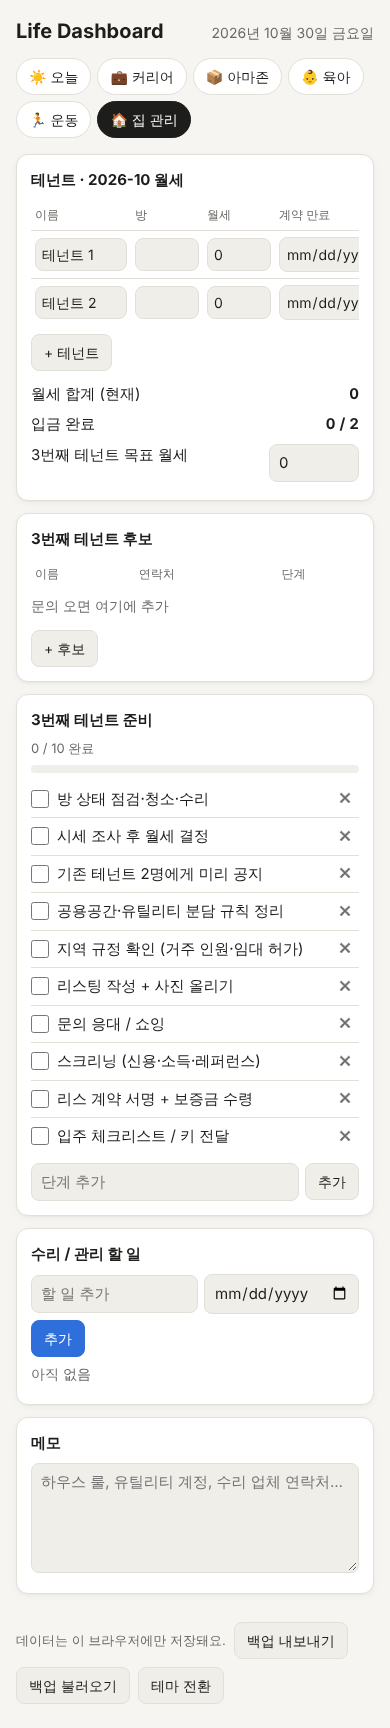
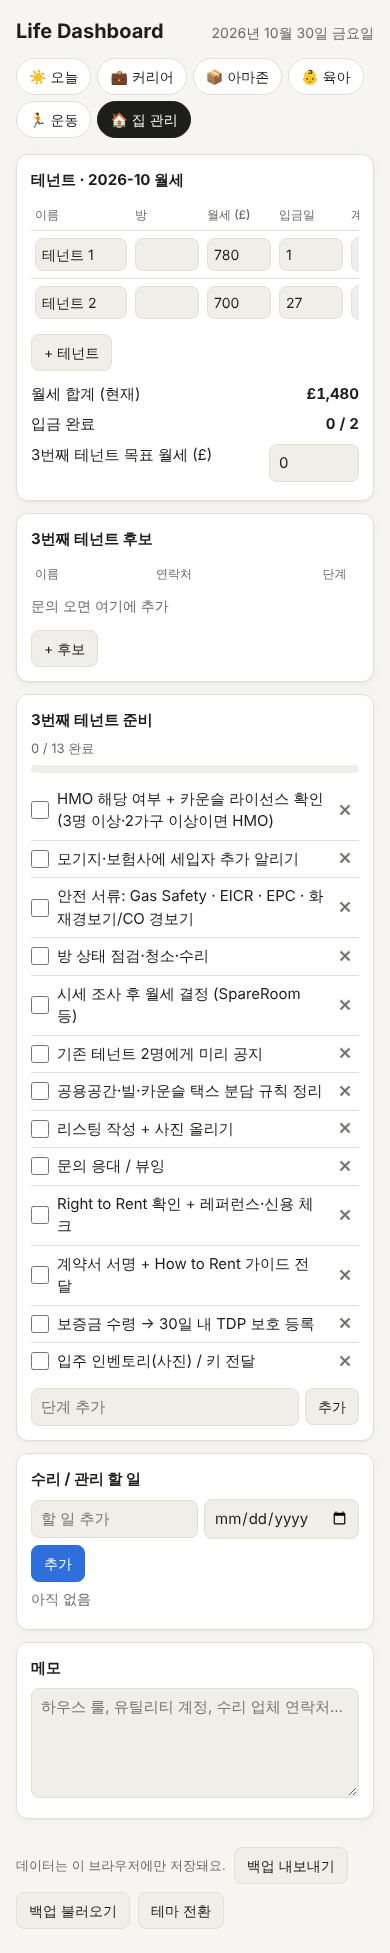
Add rent due days, GBP currency, and UK tenant checklist
Existing tenants default to £780 (due 1st) and £700 (due 27th). Unpaid
rent that is overdue or due within 3 days appears on the today view and
can be ticked off there. Third-tenant checklist now covers HMO licensing,
safety certificates, Right to Rent and deposit protection.

Claude-Session: https://claude.ai/code/session_01GAwHhr3pWUM5SJs8EwZoWy

diff --git a/index.html b/index.html
@@ -95,7 +95,7 @@ ul.list li.done .t { text-decoration: line-through; color: var(--muted); }
 .week button.today { outline: 2px solid var(--text); outline-offset: 1px; }
 .bigbtn { width: 100%; padding: 16px; font-size: 17px; font-weight: 600; border-radius: 12px; cursor: pointer; border: 0; background: var(--fitness); color: #fff; font-family: inherit; }
 .bigbtn.done { background: var(--surface-2); color: var(--muted); }
-.table { width: 100%; min-width: 480px; border-collapse: collapse; font-size: 14px; }
+.table { width: 100%; min-width: 560px; border-collapse: collapse; font-size: 14px; }
 .table th, .table td { text-align: left; padding: 6px 4px; border-top: 1px solid var(--border); vertical-align: middle; }
 .table th { color: var(--muted); font-weight: 500; font-size: 12px; border-top: 0; }
 .table input, .table select { width: 100%; min-width: 64px; padding: 5px 6px; }
@@ -148,17 +148,25 @@ const AMAZON_STEPS = [
   '런칭 PPC 광고 세팅',
   '첫 리뷰 확보 (Vine 등)',
 ];
+const OLD_TENANT_STEPS = [
+  '방 상태 점검·청소·수리', '시세 조사 후 월세 결정', '기존 테넌트 2명에게 미리 공지',
+  '공용공간·유틸리티 분담 규칙 정리', '지역 규정 확인 (거주 인원·임대 허가)', '리스팅 작성 + 사진 올리기',
+  '문의 응대 / 쇼잉', '스크리닝 (신용·소득·레퍼런스)', '리스 계약 서명 + 보증금 수령', '입주 체크리스트 / 키 전달',
+];
 const TENANT_STEPS = [
+  'HMO 해당 여부 + 카운슬 라이선스 확인 (3명 이상·2가구 이상이면 HMO)',
+  '모기지·보험사에 세입자 추가 알리기',
+  '안전 서류: Gas Safety · EICR · EPC · 화재경보기/CO 경보기',
   '방 상태 점검·청소·수리',
-  '시세 조사 후 월세 결정',
+  '시세 조사 후 월세 결정 (SpareRoom 등)',
   '기존 테넌트 2명에게 미리 공지',
-  '공용공간·유틸리티 분담 규칙 정리',
-  '지역 규정 확인 (거주 인원·임대 허가)',
+  '공용공간·빌·카운슬 택스 분담 규칙 정리',
   '리스팅 작성 + 사진 올리기',
-  '문의 응대 / 쇼잉',
-  '스크리닝 (신용·소득·레퍼런스)',
-  '리스 계약 서명 + 보증금 수령',
-  '입주 체크리스트 / 키 전달',
+  '문의 응대 / 뷰잉',
+  'Right to Rent 확인 + 레퍼런스·신용 체크',
+  '계약서 서명 + How to Rent 가이드 전달',
+  '보증금 수령 → 30일 내 TDP 보호 등록',
+  '입주 인벤토리(사진) / 키 전달',
 ];
 const PRODUCT_STAGES = ['아이디어', '리서치', '샘플', '발주', '입고중', '판매중', '보류'];
 const CANDIDATE_STAGES = ['문의', '쇼잉 예정', '쇼잉 완료', '심사중', '승인', '계약 완료', '탈락'];
@@ -175,7 +183,8 @@ const weekDates = () => {
   return [...Array(7)].map((_, i) => fmt(addDays(monday, i)));
 };
 const shortDate = s => { const [, m, d] = s.split('-'); return `${+m}/${+d}`; };
-const won = n => (Number(n) || 0).toLocaleString('en-US', { maximumFractionDigits: 2 });
+const CURRENCY = '£';
+const money = n => { const v = Number(n) || 0; return (v < 0 ? '-' : '') + CURRENCY + Math.abs(v).toLocaleString('en-GB', { maximumFractionDigits: 2 }); };
 
 /* ---------- state ---------- */
 const uid = () => Math.random().toString(36).slice(2, 10);
@@ -191,8 +200,8 @@ function defaultState() {
     fitness: { log: {}, goalPerWeek: 2, minimum: '10분 걷기 또는 스트레칭' },
     house: {
       tenants: [
-        { id: uid(), name: '테넌트 1', room: '', rent: 0, leaseEnd: '', paid: {} },
-        { id: uid(), name: '테넌트 2', room: '', rent: 0, leaseEnd: '', paid: {} },
+        { id: uid(), name: '테넌트 1', room: '', rent: 780, dueDay: 1, leaseEnd: '', paid: {} },
+        { id: uid(), name: '테넌트 2', room: '', rent: 700, dueDay: 27, leaseEnd: '', paid: {} },
       ],
       targetRent: 0,
       steps: steps(TENANT_STEPS),
@@ -203,9 +212,24 @@ function defaultState() {
 function load() {
   try {
     const raw = localStorage.getItem(KEY);
-    if (raw) return deepMerge(defaultState(), JSON.parse(raw));
+    if (raw) return migrate(deepMerge(defaultState(), JSON.parse(raw)));
   } catch (e) { /* storage unavailable */ }
   return defaultState();
+}
+// Fill rent/due day into the placeholder tenants saved before those fields existed.
+function migrate(s) {
+  const presets = { '테넌트 1': [780, 1], '테넌트 2': [700, 27] };
+  for (const t of s.house.tenants) {
+    const p = presets[t.name];
+    if (p && !Number(t.rent)) t.rent = p[0];
+    if (p && !t.dueDay) t.dueDay = p[1];
+  }
+  // Swap the original generic checklist for the UK one if it was never touched.
+  const st = s.house.steps;
+  if (st.length === OLD_TENANT_STEPS.length && st.every((x, i) => x.title === OLD_TENANT_STEPS[i] && !x.done)) {
+    s.house.steps = steps(TENANT_STEPS);
+  }
+  return s;
 }
 function deepMerge(base, saved) {
   for (const k in saved) {
@@ -301,13 +325,39 @@ function amazonStats() {
   const stepsDone = state.amazon.steps.filter(s => s.done).length;
   return { income, expense, net: income - expense, totalNet: totalIn - totalOut, stepsDone, stepsTotal: state.amazon.steps.length };
 }
+// This month's payment date for a tenant (day clamped to month length).
+function rentDueDate(t) {
+  if (!t.dueDay) return '';
+  const now = new Date();
+  const last = new Date(now.getFullYear(), now.getMonth() + 1, 0).getDate();
+  return fmt(new Date(now.getFullYear(), now.getMonth(), Math.min(Number(t.dueDay), last)));
+}
+// Unpaid rent that is overdue, due today, or due within 3 days.
+function rentAlerts() {
+  const m = thisMonth(), now = today(), soon = fmt(addDays(new Date(), 3));
+  return state.house.tenants
+    .map(t => ({ t, due: rentDueDate(t) }))
+    .filter(({ t, due }) => due && due <= soon && !(t.paid && t.paid[m]))
+    .sort((a, b) => a.due.localeCompare(b.due));
+}
+function rentAlertItem({ t, due }) {
+  const now = today();
+  const label = due < now ? `지남 · ${shortDate(due)}` : due === now ? '오늘' : shortDate(due);
+  return `<li>
+    <input type="checkbox" data-action="toggle-rent" data-id="${t.id}" title="입금 확인">
+    <span class="dot" style="${areaVar('house')}"></span>
+    <span class="t">${esc(t.name || '테넌트')} 월세 ${money(t.rent)} 입금 확인</span>
+    <span class="tag${due < now ? ' late' : ''}">${label}</span></li>`;
+}
 function houseStats() {
   const m = thisMonth();
   const t = state.house.tenants;
   const rentTotal = t.reduce((s, x) => s + (Number(x.rent) || 0), 0);
   const paid = t.filter(x => x.paid && x.paid[m]).length;
+  const nextDue = t.filter(x => x.dueDay && !(x.paid && x.paid[m])).map(x => ({ t: x, due: rentDueDate(x) }))
+    .sort((a, b) => a.due.localeCompare(b.due))[0];
   const stepsDone = state.house.steps.filter(s => s.done).length;
-  return { count: t.length, rentTotal, paid, stepsDone, stepsTotal: state.house.steps.length };
+  return { count: t.length, rentTotal, paid, nextDue, stepsDone, stepsTotal: state.house.steps.length };
 }
 function nextKidEvent() {
   const now = today();
@@ -320,6 +370,7 @@ const VIEWS = {
     const now = today();
     const focus = state.tasks.filter(t => t.focus && !t.done);
     const urgent = sortTasks(state.tasks.filter(t => !t.done && !t.focus && t.due && t.due <= now));
+    const rent = rentAlerts();
     const fs = fitnessStats(), as = amazonStats(), hs = houseStats(), ev = nextKidEvent();
     const careerOpen = state.tasks.filter(t => t.area === 'career' && !t.done).length;
     const goals = state.career.goals;
@@ -329,10 +380,12 @@ const VIEWS = {
     return `
       <div class="cards">
         ${card('career', `${careerOpen}개 남음`, goals.length ? `목표 평균 ${Math.round(goalAvg)}%` : '목표를 정해보세요')}
-        ${card('amazon', `런칭 ${as.stepsDone}/${as.stepsTotal}`, `이번 달 순익 ${won(as.net)}`)}
+        ${card('amazon', `런칭 ${as.stepsDone}/${as.stepsTotal}`, `이번 달 순익 ${money(as.net)}`)}
         ${card('kids', ev ? esc(ev.title) : '일정 없음', ev ? `${ev.date === now ? '오늘' : shortDate(ev.date)} ${esc(ev.time || '')}` : '다가오는 일정 추가')}
         ${card('fitness', `이번 주 ${fs.week}/${fs.goal}`, state.fitness.log[now] ? '오늘 완료 ✓' : `최소: ${esc(state.fitness.minimum)}`)}
-        ${card('house', `월세 ${hs.paid}/${hs.count} 입금`, `3번째 테넌트 준비 ${hs.stepsDone}/${hs.stepsTotal}`)}
+        ${card('house', `월세 ${hs.paid}/${hs.count} 입금`, hs.nextDue
+          ? `다음: ${esc(hs.nextDue.t.name)} ${shortDate(hs.nextDue.due)} ${money(hs.nextDue.t.rent)}`
+          : `3번째 테넌트 준비 ${hs.stepsDone}/${hs.stepsTotal}`)}
       </div>
       <div class="grid" style="margin-top:12px">
         <div class="card">
@@ -354,8 +407,8 @@ const VIEWS = {
         </div>
       </div>
       <div class="card" style="margin-top:12px">
-        <h2>마감 지남 / 오늘 마감</h2>
-        ${urgent.length ? `<ul class="list">${urgent.map(t => taskItem(t, true)).join('')}</ul>` : '<div class="empty">없음 👍</div>'}
+        <h2>마감 지남 / 곧 마감</h2>
+        ${urgent.length || rent.length ? `<ul class="list">${rent.map(rentAlertItem).join('')}${urgent.map(t => taskItem(t, true)).join('')}</ul>` : '<div class="empty">없음 👍</div>'}
       </div>`;
   },
 
@@ -403,7 +456,7 @@ const VIEWS = {
                 <td>${editInput(P, p, 'cost', 'number', 'step="0.01"')}</td>
                 <td>${editInput(P, p, 'fee', 'number', 'step="0.01"')}</td>
                 <td>${editInput(P, p, 'price', 'number', 'step="0.01"')}</td>
-                <td class="${margin >= 0 ? 'pos' : 'neg'}" style="white-space:nowrap">${won(margin)} <span class="small">(${mp}%)</span></td>
+                <td class="${margin >= 0 ? 'pos' : 'neg'}" style="white-space:nowrap">${money(margin)} <span class="small">(${mp}%)</span></td>
                 <td><button class="icon" data-action="del-item" data-path="${P}" data-id="${p.id}">✕</button></td></tr>`;
             }).join('')}
           </table></div>
@@ -412,10 +465,10 @@ const VIEWS = {
           <div class="hint">마진 = 판매가 − 원가(배송·관세 포함) − FBA/리퍼럴 수수료. 광고비 감안하면 30% 이상이 안전해요.</div>
         </div>
         <div class="card"><h3>수입 / 지출</h3>
-          <div class="stat"><span>이번 달 수입</span><b class="pos">${won(s.income)}</b></div>
-          <div class="stat"><span>이번 달 지출</span><b class="neg">${won(s.expense)}</b></div>
-          <div class="stat"><span>이번 달 순익</span><b class="${s.net >= 0 ? 'pos' : 'neg'}">${won(s.net)}</b></div>
-          <div class="stat muted small"><span>누적 순익</span><b>${won(s.totalNet)}</b></div>
+          <div class="stat"><span>이번 달 수입</span><b class="pos">${money(s.income)}</b></div>
+          <div class="stat"><span>이번 달 지출</span><b class="neg">${money(s.expense)}</b></div>
+          <div class="stat"><span>이번 달 순익</span><b class="${s.net >= 0 ? 'pos' : 'neg'}">${money(s.net)}</b></div>
+          <div class="stat muted small"><span>누적 순익</span><b>${money(s.totalNet)}</b></div>
           <form class="row" data-form="ledger" style="margin-top:8px">
             <input type="date" name="date" value="${today()}" required>
             <select name="type"><option>지출</option><option>수입</option></select>
@@ -425,7 +478,7 @@ const VIEWS = {
           </form>
           ${ledger.length ? `<ul class="list">${ledger.slice(0, 15).map(e => `<li>
             <span class="tag">${shortDate(e.date)}</span><span class="t">${esc(e.memo || e.type)}</span>
-            <b class="${e.type === '수입' ? 'pos' : 'neg'}">${e.type === '수입' ? '+' : '−'}${won(e.amount)}</b>
+            <b class="${e.type === '수입' ? 'pos' : 'neg'}">${e.type === '수입' ? '+' : '−'}${money(e.amount)}</b>
             <button class="icon" data-action="del-item" data-path="amazon.ledger" data-id="${e.id}">✕</button></li>`).join('')}</ul>` : ''}
         </div>
       </div>
@@ -493,23 +546,24 @@ const VIEWS = {
       <div class="stack">
         <div class="card"><h3>테넌트 · ${m} 월세</h3>
           <div class="scroll-x"><table class="table">
-            <tr><th>이름</th><th>방</th><th>월세</th><th>계약 만료</th><th>입금</th><th></th></tr>
+            <tr><th>이름</th><th>방</th><th>월세 (${CURRENCY})</th><th>입금일</th><th>계약 만료</th><th>입금</th><th></th></tr>
             ${state.house.tenants.map(t => {
               const soon = t.leaseEnd && t.leaseEnd <= fmt(addDays(new Date(), 60));
               return `<tr>
                 <td style="min-width:100px">${editInput(T, t, 'name')}</td>
                 <td style="min-width:60px">${editInput(T, t, 'room')}</td>
                 <td>${editInput(T, t, 'rent', 'number')}</td>
+                <td>${editInput(T, t, 'dueDay', 'number', 'min="1" max="31"')}</td>
                 <td style="min-width:130px">${editInput(T, t, 'leaseEnd', 'date', soon ? 'style="border-color:var(--danger)" title="60일 내 만료"' : '')}</td>
                 <td><input type="checkbox" data-action="toggle-rent" data-id="${t.id}" ${t.paid && t.paid[m] ? 'checked' : ''}></td>
                 <td><button class="icon" data-action="del-item" data-path="${T}" data-id="${t.id}">✕</button></td></tr>`;
             }).join('')}
           </table></div>
           <button class="btn" data-action="add-tenant" style="margin-top:8px">+ 테넌트</button>
-          <div class="stat" style="margin-top:8px"><span>월세 합계 (현재)</span><b>${won(hs.rentTotal)}</b></div>
+          <div class="stat" style="margin-top:8px"><span>월세 합계 (현재)</span><b>${money(hs.rentTotal)}</b></div>
           <div class="stat"><span>입금 완료</span><b>${hs.paid} / ${hs.count}</b></div>
-          <div class="stat"><span>3번째 테넌트 목표 월세</span><input type="number" data-setting="house.targetRent" value="${esc(state.house.targetRent)}"></div>
-          ${target ? `<div class="stat muted small"><span>3명 기준 예상 월 수입</span><b>${won(hs.rentTotal + target)}</b></div>` : ''}
+          <div class="stat"><span>3번째 테넌트 목표 월세 (${CURRENCY})</span><input type="number" data-setting="house.targetRent" value="${esc(state.house.targetRent)}"></div>
+          ${target ? `<div class="stat muted small"><span>3명 기준 예상 월 수입</span><b>${money(hs.rentTotal + target)}</b></div>` : ''}
         </div>
         <div class="card"><h3>3번째 테넌트 후보</h3>
           <div class="scroll-x"><table class="table">
@@ -569,7 +623,7 @@ document.addEventListener('click', e => {
     }
     case 'workout': { const d = el.dataset.date; state.fitness.log[d] = !state.fitness.log[d]; if (!state.fitness.log[d]) delete state.fitness.log[d]; break; }
     case 'add-product': state.amazon.products.push({ id: uid(), name: '', stage: PRODUCT_STAGES[0], cost: '', fee: '', price: '' }); break;
-    case 'add-tenant': state.house.tenants.push({ id: uid(), name: '', room: '', rent: 0, leaseEnd: '', paid: {} }); break;
+    case 'add-tenant': state.house.tenants.push({ id: uid(), name: '', room: '', rent: 0, dueDay: 1, leaseEnd: '', paid: {} }); break;
     case 'add-candidate': state.house.candidates.push({ id: uid(), name: '', contact: '', stage: CANDIDATE_STAGES[0], memo: '' }); break;
     case 'toggle-rent': { const t = findIn('house.tenants', id), m = thisMonth(); t.paid = t.paid || {}; t.paid[m] = !t.paid[m]; break; }
     case 'export': return exportData();
